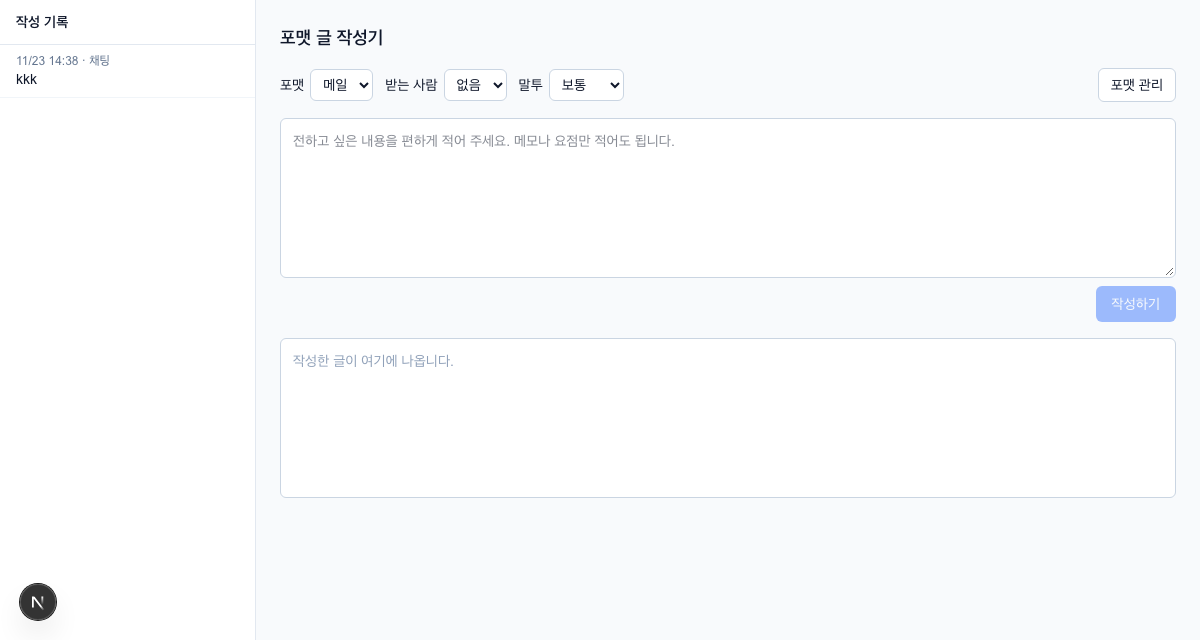
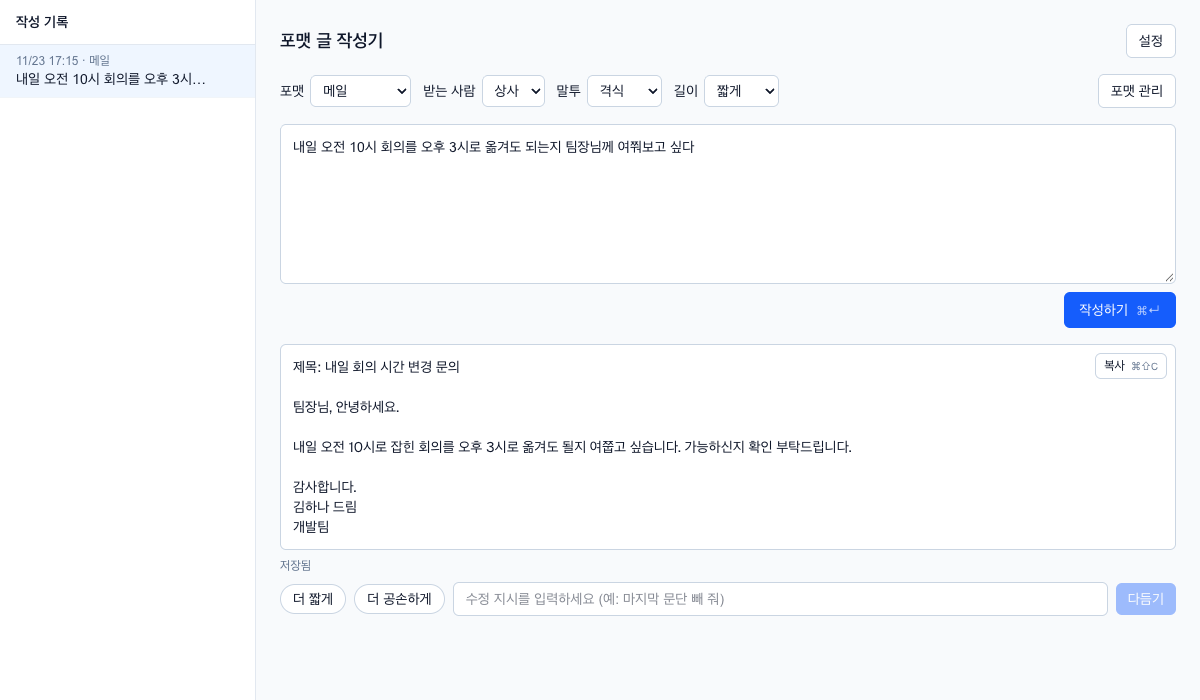
docs: README에 새 기능과 데이터·구조 반영, 미리보기 화면 갱신

diff --git a/README.md b/README.md
@@ -13,6 +13,11 @@
 - **다듬기**: 결과가 나온 뒤 **더 짧게**, **더 공손하게** 버튼이나 직접 쓴 수정 지시로 고칩니다.
 - **나만의 포맷**: **포맷 관리**에서 포맷을 추가·수정·삭제합니다. 예시 글을 넣으면 그 구성을 따라 씁니다.
 - **작성 기록**: 완성된 글은 자동으로 저장되고, 목록에서 누르면 입력·옵션·결과가 그대로 복원됩니다.
+- **결과 직접 편집**: 결과 칸에서 글을 바로 고칠 수 있습니다. 마지막 입력 1초 뒤 기록에 자동 저장되고, 복사와 다듬기도 고친 글을 기준으로 합니다.
+- **길이 옵션**: 짧게·보통·자세히 중에서 고릅니다. 고른 길이는 기록에도 남습니다.
+- **서명 저장**: 상단 **설정**에 서명을 저장해 두면 메일처럼 서명이 어울리는 글 끝에 넣어 줍니다.
+- **업무용 기본 포맷**: 메일·채팅·보고에 Jira 코멘트·MR 본문·리뷰 답글·주간 보고가 기본으로 들어 있고, 지운 기본 포맷은 **포맷 관리**의 **기본 포맷 불러오기**로 되살립니다.
+- **단축키**: `⌘/Ctrl + Enter`로 작성하고 `⌘/Ctrl + Shift + C`로 결과를 복사합니다.
 - **지어내지 않기**: 내용에 없는 날짜·이름·숫자는 `[날짜]`처럼 자리 표시로 남깁니다.
 
 ## 준비물
@@ -51,8 +56,9 @@ npm run dev                  # 서버를 다시 시작해야 반영됩니다
 
 포맷과 작성 기록은 프로젝트 안의 JSON 파일에 저장됩니다.
 
-- `data/formats.json`: 포맷 목록. 처음 실행하면 메일·채팅·보고 3개로 만들어집니다.
+- `data/formats.json`: 포맷 목록. 처음 실행하면 기본 포맷 7개로 만들어집니다. 이미 있는 파일에는 새 기본 포맷을 자동으로 넣지 않습니다.
 - `data/history.json`: 작성 기록. 최근 200건만 유지합니다.
+- `data/settings.json`: 설정(지금은 서명 하나). 없으면 서명 없이 동작합니다.
 
 `data/`와 `.env.local`은 git에 올라가지 않습니다. 파일이 깨져 있으면 `*.broken-<시각>`으로 옮겨 두고 기본값으로 다시 시작합니다.
 
@@ -62,11 +68,14 @@ npm run dev                  # 서버를 다시 시작해야 반영됩니다
 app/
   page.tsx                 화면 조립, 생성·다듬기·기록 흐름
   api/generate/            글 생성. 한 줄에 JSON 하나씩 흘려보냄(NDJSON)
-  api/formats/             포맷 조회·추가·수정·삭제
+  api/formats/             포맷 조회·추가·수정·삭제, 기본 포맷 불러오기
   api/history/             기록 조회·추가·결과 갱신·삭제
-components/                옵션 바, 입력, 결과, 기록 목록, 포맷 관리 모달
+  api/settings/            설정(서명) 조회·저장
+components/                옵션 바, 입력, 결과, 기록 목록, 포맷 관리·설정 모달
 lib/
-  prompt.ts                포맷·받는 사람·말투를 Claude에게 줄 지시문으로 조립
+  defaults.ts              기본 포맷, 받는 사람·말투·길이 목록
+  platform.ts              단축키 표시용 플랫폼(⌘/Ctrl) 판별
+  prompt.ts                포맷·받는 사람·말투·길이·서명을 Claude에게 줄 지시문으로 조립
   provider.ts              호출 방식 선택 (Claude Code 계정 / API 키)
   claude-code.ts           claude -p 실행, 출력을 글 조각으로 변환
   claude.ts                Anthropic SDK 스트리밍 호출
@@ -102,7 +111,7 @@ npm run test:integration  # 통합 테스트만
 npm run test:coverage     # 커버리지 포함
 ```
 
-E2E 테스트(`e2e/`)는 실제 Chrome 브라우저로 화면을 조작해 작성하기, 복사, 다듬기, 기록 복원·삭제, 포맷 관리, 중단, 오류 표시까지 사용자 흐름을 처음부터 끝까지 확인합니다. 실행할 때마다 다른 포트(4311)에 프로덕션 빌드를 `.next-e2e/`에 만들어 자체 서버를 띄우고, 데이터는 임시 폴더에 저장하며 `claude` 대신 `e2e/bin/claude`(가짜)를 쓰므로 `data/`와 개발 서버(4100)에 영향을 주지 않고 사용량도 들지 않습니다. 컴퓨터에 설치된 Google Chrome을 사용합니다.
+E2E 테스트(`e2e/`)는 실제 Chrome 브라우저로 화면을 조작해 작성하기, 복사, 다듬기, 결과 편집, 단축키, 길이, 서명, 기록 복원·삭제, 포맷 관리, 기본 포맷 불러오기, 중단, 오류 표시까지 사용자 흐름을 처음부터 끝까지 확인합니다. 실행할 때마다 다른 포트(4311)에 프로덕션 빌드를 `.next-e2e/`에 만들어 자체 서버를 띄우고, 데이터는 임시 폴더에 저장하며 `claude` 대신 `e2e/bin/claude`(가짜)를 쓰므로 `data/`와 개발 서버(4100)에 영향을 주지 않고 사용량도 들지 않습니다. 컴퓨터에 설치된 Google Chrome을 사용합니다.
 
 ```bash
 npm run test:e2e          # E2E 테스트 (자체 서버를 띄우고 끝나면 종료)
